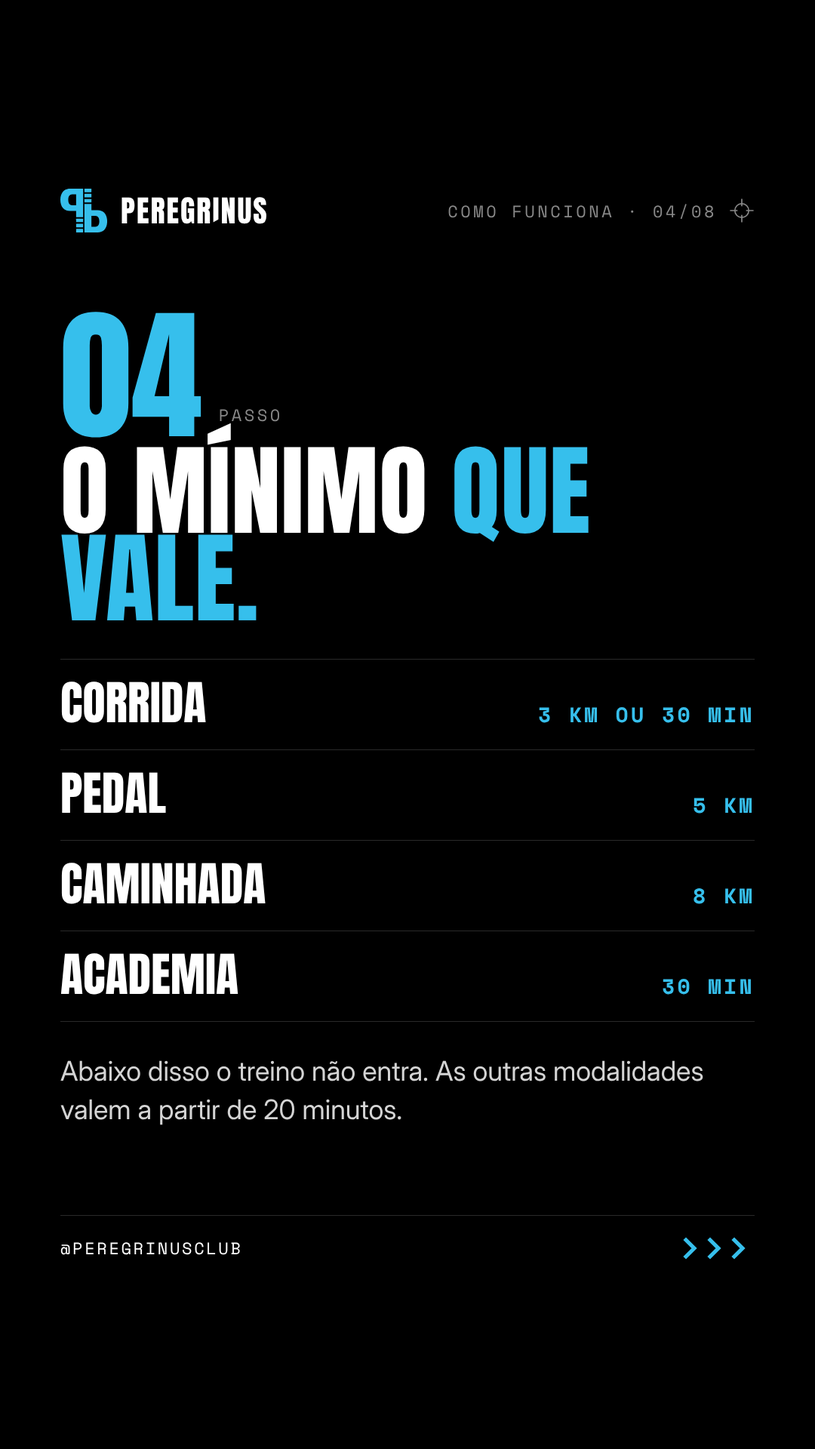
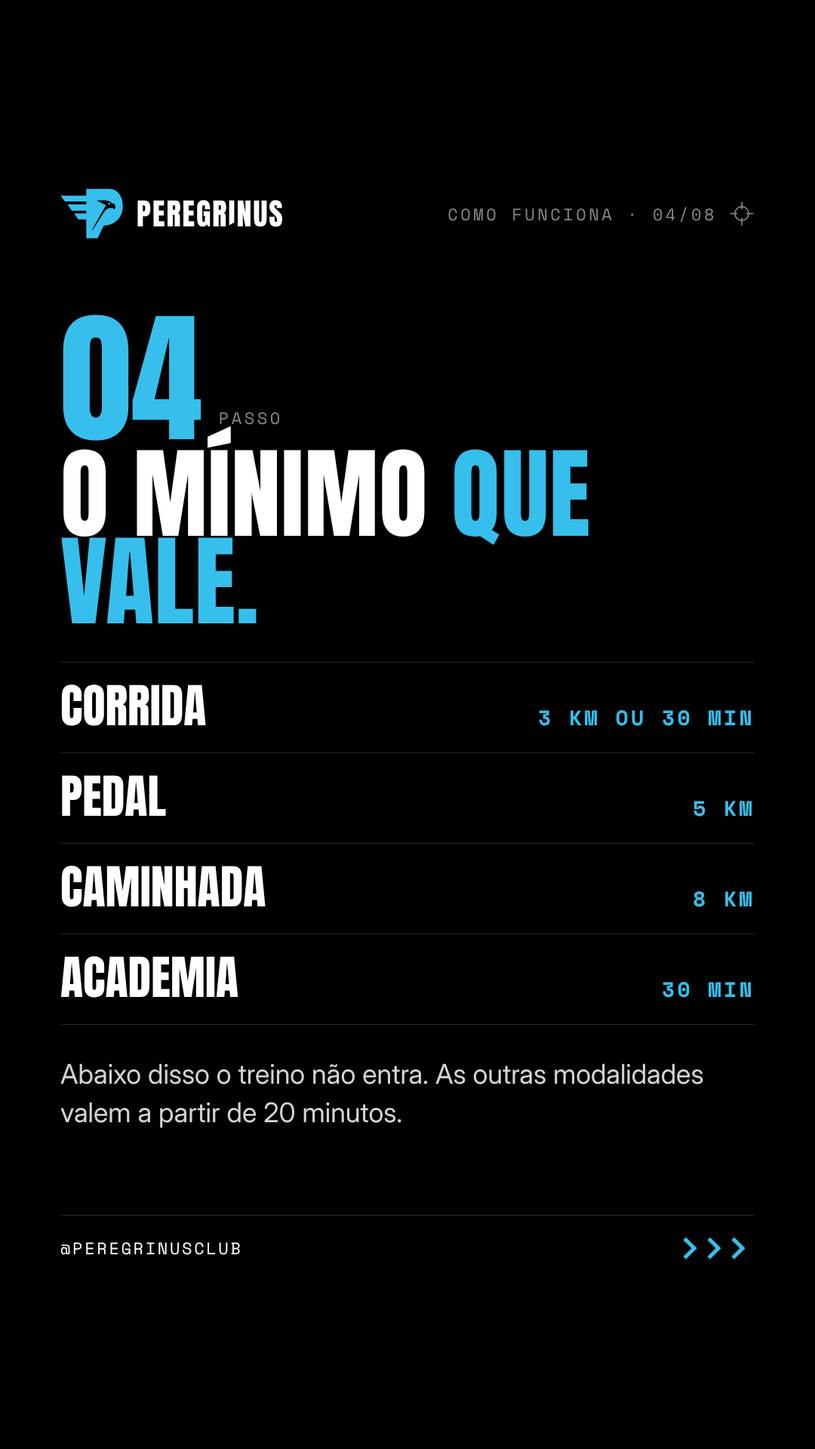
Stories do app: falcão em P no lugar do qb e capa com foto de alguém usando o app
Claude-Session: https://claude.ai/code/session_01LVriSKNRdrLtdVX5x94ct5

diff --git a/peregrinus/criacoes/stories-como-funciona-app/story-01.html b/peregrinus/criacoes/stories-como-funciona-app/story-01.html
@@ -13,12 +13,13 @@ body.azul{background:var(--blue);color:var(--black)}
 .safe{position:absolute;inset:250px 80px 250px 80px;display:flex;flex-direction:column;z-index:3}
 .top{display:flex;justify-content:space-between;align-items:center}
 .lockup{display:flex;align-items:center;gap:18px}
-.lockup svg{height:58px;width:auto;fill:var(--blue)}
+.lockup svg{height:66px;width:auto;fill:var(--blue)}
 body.azul .lockup svg,.capa .lockup svg{fill:var(--black)}
 .wm{font-family:"Anton",sans-serif;text-transform:uppercase;letter-spacing:.05em;line-height:1;font-size:40px;white-space:nowrap}
 .wm .i{display:inline-block;clip-path:polygon(-10% -10%,110% -10%,110% 74%,-10% 92%)}
 .tag{display:flex;align-items:center;gap:16px;font-family:"Space Mono",monospace;font-size:22px;letter-spacing:.16em;text-transform:uppercase;color:var(--grey)}
 body.azul .tag,.capa .tag,.capa .wm{color:var(--black)}
+.capa-foto .tag{color:var(--white)}
 .tag svg{width:34px;height:34px}
 .mid{flex:1;display:flex;flex-direction:column;justify-content:center}
 .step{display:flex;align-items:flex-end;gap:22px;margin-bottom:18px}
@@ -83,8 +84,14 @@ body.azul .foot svg{color:var(--black)}
 <symbol id="fire" viewBox="0 0 24 24"><path d="M12 2c1 3.5 5 6 5 11a5 5 0 0 1-10 0c0-2.4 1.2-4 2.6-5.3.2 1.6 1 2.8 2.2 3.3C11 8.6 11.3 5 12 2z" fill="none" stroke="currentColor" stroke-width="1.8" stroke-linejoin="round"/></symbol>
 <symbol id="msg" viewBox="0 0 24 24"><path d="M4 5h16v11H9l-5 4z" fill="none" stroke="currentColor" stroke-width="1.8" stroke-linejoin="round"/></symbol>
 </defs></svg>
-<div style="position:absolute;left:0;top:0;width:1080px;height:1060px;background:#36BFEC;overflow:hidden;z-index:0"><img src="falcao-voo.jpg" alt="" style="position:absolute;left:-180px;top:260px;width:1500px;mix-blend-mode:multiply;filter:grayscale(1)"></div>
-<div class="safe"><div class="capa"><div class="top"><div class="lockup"><svg viewBox="0 0 107 100"><use href="#pp"/></svg><span class="wm">PEREGR<span class="i">I</span>NUS</span></div><div class="tag"><span>App do club</span><svg><use href="#xh"/></svg></div></div></div>
+<div style="position:absolute;left:0;top:0;width:1080px;height:1120px;background:#000;overflow:hidden;z-index:0"><img src="capa-foto.jpg" alt="" style="position:absolute;left:-200px;top:-150px;width:1500px;filter:grayscale(1) contrast(1.1)"><div style="position:absolute;left:272px;top:480px;width:210px;height:412px;transform:scale(1.000);transform-origin:0 0;background:#000;border-radius:14px;overflow:hidden;font-family:Inter;color:#fff;padding:22px 14px">
+  <div style="display:flex;align-items:center;gap:6px"><svg viewBox="0 0 690 548" style="height:16px;width:auto;fill:#36BFEC"><use href="#fal"/></svg><span class="wm" style="font-size:11px">PEREGR<span class="i">I</span>NUS</span></div>
+  <div style="font-family:Anton;font-size:30px;line-height:.9;margin-top:22px">TREINOU?<br><span style="color:#36BFEC">POSTA.</span></div>
+  <div style="margin-top:12px;height:96px;background:#222;border-radius:2px;position:relative;overflow:hidden"><img src="falcao-voo.jpg" style="width:100%;height:100%;object-fit:cover;filter:grayscale(1)"><span style="position:absolute;left:5px;bottom:5px;background:#000;font-family:'Space Mono';font-size:7px;letter-spacing:.1em;padding:2px 4px;font-weight:700">JORNADA <b style="color:#36BFEC">047</b></span></div>
+  <div style="display:flex;gap:4px;margin-top:10px;font-family:'Space Mono';font-size:6.5px;letter-spacing:.08em"><span style="background:#36BFEC;color:#000;padding:3px 5px;font-weight:700">CORRIDA</span><span style="border:1px solid #555;padding:2px 5px">PEDAL</span><span style="border:1px solid #555;padding:2px 5px">ACADEMIA</span></div>
+  <div style="margin-top:12px;background:#36BFEC;color:#000;font-family:'Space Mono';font-weight:700;font-size:8px;letter-spacing:.12em;padding:8px 9px">REGISTRAR TREINO &gt;&gt;&gt;</div>
+</div><div style="position:absolute;inset:0;background:linear-gradient(180deg,rgba(0,0,0,.55) 0%,rgba(0,0,0,0) 26%,rgba(0,0,0,0) 72%,#000 100%)"></div></div>
+<div class="safe"><div class="capa-foto"><div class="top"><div class="lockup"><svg viewBox="0 0 690 548"><use href="#fal"/></svg><span class="wm">PEREGR<span class="i">I</span>NUS</span></div><div class="tag"><span>App do club</span><svg><use href="#xh"/></svg></div></div></div>
 <div class="mid" style="justify-content:flex-end;padding-bottom:40px">
   <div class="eyebrow">Passo a passo, em oito telas.</div>
   <div class="title" style="font-size:150px">O club no seu <em>celular.</em></div>

diff --git a/peregrinus/criacoes/stories-como-funciona-app/story-07.html b/peregrinus/criacoes/stories-como-funciona-app/story-07.html
@@ -13,12 +13,13 @@ body.azul{background:var(--blue);color:var(--black)}
 .safe{position:absolute;inset:250px 80px 250px 80px;display:flex;flex-direction:column;z-index:3}
 .top{display:flex;justify-content:space-between;align-items:center}
 .lockup{display:flex;align-items:center;gap:18px}
-.lockup svg{height:58px;width:auto;fill:var(--blue)}
+.lockup svg{height:66px;width:auto;fill:var(--blue)}
 body.azul .lockup svg,.capa .lockup svg{fill:var(--black)}
 .wm{font-family:"Anton",sans-serif;text-transform:uppercase;letter-spacing:.05em;line-height:1;font-size:40px;white-space:nowrap}
 .wm .i{display:inline-block;clip-path:polygon(-10% -10%,110% -10%,110% 74%,-10% 92%)}
 .tag{display:flex;align-items:center;gap:16px;font-family:"Space Mono",monospace;font-size:22px;letter-spacing:.16em;text-transform:uppercase;color:var(--grey)}
 body.azul .tag,.capa .tag,.capa .wm{color:var(--black)}
+.capa-foto .tag{color:var(--white)}
 .tag svg{width:34px;height:34px}
 .mid{flex:1;display:flex;flex-direction:column;justify-content:center}
 .step{display:flex;align-items:flex-end;gap:22px;margin-bottom:18px}
@@ -84,14 +85,14 @@ body.azul .foot svg{color:var(--black)}
 <symbol id="msg" viewBox="0 0 24 24"><path d="M4 5h16v11H9l-5 4z" fill="none" stroke="currentColor" stroke-width="1.8" stroke-linejoin="round"/></symbol>
 </defs></svg>
 
-<div class="safe"><div class="top"><div class="lockup"><svg viewBox="0 0 107 100"><use href="#pp"/></svg><span class="wm">PEREGR<span class="i">I</span>NUS</span></div><div class="tag"><span>Como funciona · 06/08</span><svg><use href="#xh"/></svg></div></div>
+<div class="safe"><div class="top"><div class="lockup"><svg viewBox="0 0 690 548"><use href="#fal"/></svg><span class="wm">PEREGR<span class="i">I</span>NUS</span></div><div class="tag"><span>Como funciona · 06/08</span><svg><use href="#xh"/></svg></div></div>
 <div class="mid">
   <div class="step"><span class="n">06</span><span class="l">PASSO</span></div>
   <div class="title">O grupo <em>vê tudo.</em></div>
   <div class="ui">
   <div class="chips"><span class="chip on">TODOS</span><span class="chip">SEGUINDO</span></div>
   <div style="display:flex;align-items:center;gap:20px;margin-top:30px">
-    <svg viewBox="0 0 107 100" style="width:74px;height:74px;fill:var(--blue);background:#1c1c1c;border-radius:50%;padding:16px"><use href="#pp"/></svg>
+    <svg viewBox="0 0 690 548" style="width:74px;height:74px;fill:var(--blue);background:#1c1c1c;border-radius:50%;padding:14px"><use href="#fal"/></svg>
     <div><div style="font-weight:600;font-size:32px">Nome do membro</div><div class="mono" style="font-size:20px;color:var(--grey)">CORRIDA · JORNADA 012</div></div>
   </div>
   <div style="display:flex;gap:40px;margin-top:30px;padding-top:24px;border-top:1.5px solid var(--line)">

diff --git a/peregrinus/criacoes/stories-como-funciona-app/story-10.html b/peregrinus/criacoes/stories-como-funciona-app/story-10.html
@@ -13,12 +13,13 @@ body.azul{background:var(--blue);color:var(--black)}
 .safe{position:absolute;inset:250px 80px 250px 80px;display:flex;flex-direction:column;z-index:3}
 .top{display:flex;justify-content:space-between;align-items:center}
 .lockup{display:flex;align-items:center;gap:18px}
-.lockup svg{height:58px;width:auto;fill:var(--blue)}
+.lockup svg{height:66px;width:auto;fill:var(--blue)}
 body.azul .lockup svg,.capa .lockup svg{fill:var(--black)}
 .wm{font-family:"Anton",sans-serif;text-transform:uppercase;letter-spacing:.05em;line-height:1;font-size:40px;white-space:nowrap}
 .wm .i{display:inline-block;clip-path:polygon(-10% -10%,110% -10%,110% 74%,-10% 92%)}
 .tag{display:flex;align-items:center;gap:16px;font-family:"Space Mono",monospace;font-size:22px;letter-spacing:.16em;text-transform:uppercase;color:var(--grey)}
 body.azul .tag,.capa .tag,.capa .wm{color:var(--black)}
+.capa-foto .tag{color:var(--white)}
 .tag svg{width:34px;height:34px}
 .mid{flex:1;display:flex;flex-direction:column;justify-content:center}
 .step{display:flex;align-items:flex-end;gap:22px;margin-bottom:18px}
@@ -84,7 +85,7 @@ body.azul .foot svg{color:var(--black)}
 <symbol id="msg" viewBox="0 0 24 24"><path d="M4 5h16v11H9l-5 4z" fill="none" stroke="currentColor" stroke-width="1.8" stroke-linejoin="round"/></symbol>
 </defs></svg>
 
-<div class="safe"><div class="top"><div class="lockup"><svg viewBox="0 0 107 100"><use href="#pp"/></svg><span class="wm">PEREGR<span class="i">I</span>NUS</span></div><div class="tag"><span>Bora junto</span><svg><use href="#xh"/></svg></div></div>
+<div class="safe"><div class="top"><div class="lockup"><svg viewBox="0 0 690 548"><use href="#fal"/></svg><span class="wm">PEREGR<span class="i">I</span>NUS</span></div><div class="tag"><span>Bora junto</span><svg><use href="#xh"/></svg></div></div>
 <div class="mid" style="justify-content:flex-end;padding-bottom:40px">
   <div class="title" style="font-size:150px">Seu esporte.<br>Seu ritmo.<br>Sua <em>jornada.</em></div>
   <div class="body">Ainda não entrou? Peça o código de convite no direct e comece hoje.</div>

diff --git a/peregrinus/criacoes/stories-como-funciona-app/story-02.html b/peregrinus/criacoes/stories-como-funciona-app/story-02.html
@@ -13,12 +13,13 @@ body.azul{background:var(--blue);color:var(--black)}
 .safe{position:absolute;inset:250px 80px 250px 80px;display:flex;flex-direction:column;z-index:3}
 .top{display:flex;justify-content:space-between;align-items:center}
 .lockup{display:flex;align-items:center;gap:18px}
-.lockup svg{height:58px;width:auto;fill:var(--blue)}
+.lockup svg{height:66px;width:auto;fill:var(--blue)}
 body.azul .lockup svg,.capa .lockup svg{fill:var(--black)}
 .wm{font-family:"Anton",sans-serif;text-transform:uppercase;letter-spacing:.05em;line-height:1;font-size:40px;white-space:nowrap}
 .wm .i{display:inline-block;clip-path:polygon(-10% -10%,110% -10%,110% 74%,-10% 92%)}
 .tag{display:flex;align-items:center;gap:16px;font-family:"Space Mono",monospace;font-size:22px;letter-spacing:.16em;text-transform:uppercase;color:var(--grey)}
 body.azul .tag,.capa .tag,.capa .wm{color:var(--black)}
+.capa-foto .tag{color:var(--white)}
 .tag svg{width:34px;height:34px}
 .mid{flex:1;display:flex;flex-direction:column;justify-content:center}
 .step{display:flex;align-items:flex-end;gap:22px;margin-bottom:18px}
@@ -84,7 +85,7 @@ body.azul .foot svg{color:var(--black)}
 <symbol id="msg" viewBox="0 0 24 24"><path d="M4 5h16v11H9l-5 4z" fill="none" stroke="currentColor" stroke-width="1.8" stroke-linejoin="round"/></symbol>
 </defs></svg>
 
-<div class="safe"><div class="top"><div class="lockup"><svg viewBox="0 0 107 100"><use href="#pp"/></svg><span class="wm">PEREGR<span class="i">I</span>NUS</span></div><div class="tag"><span>Como funciona · 01/08</span><svg><use href="#xh"/></svg></div></div>
+<div class="safe"><div class="top"><div class="lockup"><svg viewBox="0 0 690 548"><use href="#fal"/></svg><span class="wm">PEREGR<span class="i">I</span>NUS</span></div><div class="tag"><span>Como funciona · 01/08</span><svg><use href="#xh"/></svg></div></div>
 <div class="mid">
   <div class="step"><span class="n">01</span><span class="l">PASSO</span></div>
   <div class="title">Entre pelo <em style="white-space:nowrap">e-mail.</em></div>

diff --git a/peregrinus/criacoes/stories-como-funciona-app/story-06.html b/peregrinus/criacoes/stories-como-funciona-app/story-06.html
@@ -13,12 +13,13 @@ body.azul{background:var(--blue);color:var(--black)}
 .safe{position:absolute;inset:250px 80px 250px 80px;display:flex;flex-direction:column;z-index:3}
 .top{display:flex;justify-content:space-between;align-items:center}
 .lockup{display:flex;align-items:center;gap:18px}
-.lockup svg{height:58px;width:auto;fill:var(--blue)}
+.lockup svg{height:66px;width:auto;fill:var(--blue)}
 body.azul .lockup svg,.capa .lockup svg{fill:var(--black)}
 .wm{font-family:"Anton",sans-serif;text-transform:uppercase;letter-spacing:.05em;line-height:1;font-size:40px;white-space:nowrap}
 .wm .i{display:inline-block;clip-path:polygon(-10% -10%,110% -10%,110% 74%,-10% 92%)}
 .tag{display:flex;align-items:center;gap:16px;font-family:"Space Mono",monospace;font-size:22px;letter-spacing:.16em;text-transform:uppercase;color:var(--grey)}
 body.azul .tag,.capa .tag,.capa .wm{color:var(--black)}
+.capa-foto .tag{color:var(--white)}
 .tag svg{width:34px;height:34px}
 .mid{flex:1;display:flex;flex-direction:column;justify-content:center}
 .step{display:flex;align-items:flex-end;gap:22px;margin-bottom:18px}
@@ -84,7 +85,7 @@ body.azul .foot svg{color:var(--black)}
 <symbol id="msg" viewBox="0 0 24 24"><path d="M4 5h16v11H9l-5 4z" fill="none" stroke="currentColor" stroke-width="1.8" stroke-linejoin="round"/></symbol>
 </defs></svg>
 
-<div class="safe"><div class="top"><div class="lockup"><svg viewBox="0 0 107 100"><use href="#pp"/></svg><span class="wm">PEREGR<span class="i">I</span>NUS</span></div><div class="tag"><span>Como funciona · 05/08</span><svg><use href="#xh"/></svg></div></div>
+<div class="safe"><div class="top"><div class="lockup"><svg viewBox="0 0 690 548"><use href="#fal"/></svg><span class="wm">PEREGR<span class="i">I</span>NUS</span></div><div class="tag"><span>Como funciona · 05/08</span><svg><use href="#xh"/></svg></div></div>
 <div class="mid">
   <div class="step"><span class="n">05</span><span class="l">PASSO</span></div>
   <div class="title">Cada treino, <em>1 ponto.</em></div>

diff --git a/peregrinus/criacoes/stories-como-funciona-app/story-05.html b/peregrinus/criacoes/stories-como-funciona-app/story-05.html
@@ -13,12 +13,13 @@ body.azul{background:var(--blue);color:var(--black)}
 .safe{position:absolute;inset:250px 80px 250px 80px;display:flex;flex-direction:column;z-index:3}
 .top{display:flex;justify-content:space-between;align-items:center}
 .lockup{display:flex;align-items:center;gap:18px}
-.lockup svg{height:58px;width:auto;fill:var(--blue)}
+.lockup svg{height:66px;width:auto;fill:var(--blue)}
 body.azul .lockup svg,.capa .lockup svg{fill:var(--black)}
 .wm{font-family:"Anton",sans-serif;text-transform:uppercase;letter-spacing:.05em;line-height:1;font-size:40px;white-space:nowrap}
 .wm .i{display:inline-block;clip-path:polygon(-10% -10%,110% -10%,110% 74%,-10% 92%)}
 .tag{display:flex;align-items:center;gap:16px;font-family:"Space Mono",monospace;font-size:22px;letter-spacing:.16em;text-transform:uppercase;color:var(--grey)}
 body.azul .tag,.capa .tag,.capa .wm{color:var(--black)}
+.capa-foto .tag{color:var(--white)}
 .tag svg{width:34px;height:34px}
 .mid{flex:1;display:flex;flex-direction:column;justify-content:center}
 .step{display:flex;align-items:flex-end;gap:22px;margin-bottom:18px}
@@ -84,7 +85,7 @@ body.azul .foot svg{color:var(--black)}
 <symbol id="msg" viewBox="0 0 24 24"><path d="M4 5h16v11H9l-5 4z" fill="none" stroke="currentColor" stroke-width="1.8" stroke-linejoin="round"/></symbol>
 </defs></svg>
 
-<div class="safe"><div class="top"><div class="lockup"><svg viewBox="0 0 107 100"><use href="#pp"/></svg><span class="wm">PEREGR<span class="i">I</span>NUS</span></div><div class="tag"><span>Como funciona · 04/08</span><svg><use href="#xh"/></svg></div></div>
+<div class="safe"><div class="top"><div class="lockup"><svg viewBox="0 0 690 548"><use href="#fal"/></svg><span class="wm">PEREGR<span class="i">I</span>NUS</span></div><div class="tag"><span>Como funciona · 04/08</span><svg><use href="#xh"/></svg></div></div>
 <div class="mid">
   <div class="step"><span class="n">04</span><span class="l">PASSO</span></div>
   <div class="title">O mínimo <em>que vale.</em></div>

diff --git a/peregrinus/criacoes/stories-como-funciona-app/story-03.html b/peregrinus/criacoes/stories-como-funciona-app/story-03.html
@@ -13,12 +13,13 @@ body.azul{background:var(--blue);color:var(--black)}
 .safe{position:absolute;inset:250px 80px 250px 80px;display:flex;flex-direction:column;z-index:3}
 .top{display:flex;justify-content:space-between;align-items:center}
 .lockup{display:flex;align-items:center;gap:18px}
-.lockup svg{height:58px;width:auto;fill:var(--blue)}
+.lockup svg{height:66px;width:auto;fill:var(--blue)}
 body.azul .lockup svg,.capa .lockup svg{fill:var(--black)}
 .wm{font-family:"Anton",sans-serif;text-transform:uppercase;letter-spacing:.05em;line-height:1;font-size:40px;white-space:nowrap}
 .wm .i{display:inline-block;clip-path:polygon(-10% -10%,110% -10%,110% 74%,-10% 92%)}
 .tag{display:flex;align-items:center;gap:16px;font-family:"Space Mono",monospace;font-size:22px;letter-spacing:.16em;text-transform:uppercase;color:var(--grey)}
 body.azul .tag,.capa .tag,.capa .wm{color:var(--black)}
+.capa-foto .tag{color:var(--white)}
 .tag svg{width:34px;height:34px}
 .mid{flex:1;display:flex;flex-direction:column;justify-content:center}
 .step{display:flex;align-items:flex-end;gap:22px;margin-bottom:18px}
@@ -84,7 +85,7 @@ body.azul .foot svg{color:var(--black)}
 <symbol id="msg" viewBox="0 0 24 24"><path d="M4 5h16v11H9l-5 4z" fill="none" stroke="currentColor" stroke-width="1.8" stroke-linejoin="round"/></symbol>
 </defs></svg>
 
-<div class="safe"><div class="top"><div class="lockup"><svg viewBox="0 0 107 100"><use href="#pp"/></svg><span class="wm">PEREGR<span class="i">I</span>NUS</span></div><div class="tag"><span>Como funciona · 02/08</span><svg><use href="#xh"/></svg></div></div>
+<div class="safe"><div class="top"><div class="lockup"><svg viewBox="0 0 690 548"><use href="#fal"/></svg><span class="wm">PEREGR<span class="i">I</span>NUS</span></div><div class="tag"><span>Como funciona · 02/08</span><svg><use href="#xh"/></svg></div></div>
 <div class="mid">
   <div class="step"><span class="n">02</span><span class="l">PASSO</span></div>
   <div class="title">Instale <em>sem loja.</em></div>

diff --git a/peregrinus/criacoes/stories-como-funciona-app/story-08.html b/peregrinus/criacoes/stories-como-funciona-app/story-08.html
@@ -13,12 +13,13 @@ body.azul{background:var(--blue);color:var(--black)}
 .safe{position:absolute;inset:250px 80px 250px 80px;display:flex;flex-direction:column;z-index:3}
 .top{display:flex;justify-content:space-between;align-items:center}
 .lockup{display:flex;align-items:center;gap:18px}
-.lockup svg{height:58px;width:auto;fill:var(--blue)}
+.lockup svg{height:66px;width:auto;fill:var(--blue)}
 body.azul .lockup svg,.capa .lockup svg{fill:var(--black)}
 .wm{font-family:"Anton",sans-serif;text-transform:uppercase;letter-spacing:.05em;line-height:1;font-size:40px;white-space:nowrap}
 .wm .i{display:inline-block;clip-path:polygon(-10% -10%,110% -10%,110% 74%,-10% 92%)}
 .tag{display:flex;align-items:center;gap:16px;font-family:"Space Mono",monospace;font-size:22px;letter-spacing:.16em;text-transform:uppercase;color:var(--grey)}
 body.azul .tag,.capa .tag,.capa .wm{color:var(--black)}
+.capa-foto .tag{color:var(--white)}
 .tag svg{width:34px;height:34px}
 .mid{flex:1;display:flex;flex-direction:column;justify-content:center}
 .step{display:flex;align-items:flex-end;gap:22px;margin-bottom:18px}
@@ -84,7 +85,7 @@ body.azul .foot svg{color:var(--black)}
 <symbol id="msg" viewBox="0 0 24 24"><path d="M4 5h16v11H9l-5 4z" fill="none" stroke="currentColor" stroke-width="1.8" stroke-linejoin="round"/></symbol>
 </defs></svg>
 
-<div class="safe"><div class="top"><div class="lockup"><svg viewBox="0 0 107 100"><use href="#pp"/></svg><span class="wm">PEREGR<span class="i">I</span>NUS</span></div><div class="tag"><span>Como funciona · 07/08</span><svg><use href="#xh"/></svg></div></div>
+<div class="safe"><div class="top"><div class="lockup"><svg viewBox="0 0 690 548"><use href="#fal"/></svg><span class="wm">PEREGR<span class="i">I</span>NUS</span></div><div class="tag"><span>Como funciona · 07/08</span><svg><use href="#xh"/></svg></div></div>
 <div class="mid">
   <div class="step"><span class="n">07</span><span class="l">PASSO</span></div>
   <div class="title">Marque <em>presença.</em></div>

diff --git a/peregrinus/criacoes/stories-como-funciona-app/story-04.html b/peregrinus/criacoes/stories-como-funciona-app/story-04.html
@@ -13,12 +13,13 @@ body.azul{background:var(--blue);color:var(--black)}
 .safe{position:absolute;inset:250px 80px 250px 80px;display:flex;flex-direction:column;z-index:3}
 .top{display:flex;justify-content:space-between;align-items:center}
 .lockup{display:flex;align-items:center;gap:18px}
-.lockup svg{height:58px;width:auto;fill:var(--blue)}
+.lockup svg{height:66px;width:auto;fill:var(--blue)}
 body.azul .lockup svg,.capa .lockup svg{fill:var(--black)}
 .wm{font-family:"Anton",sans-serif;text-transform:uppercase;letter-spacing:.05em;line-height:1;font-size:40px;white-space:nowrap}
 .wm .i{display:inline-block;clip-path:polygon(-10% -10%,110% -10%,110% 74%,-10% 92%)}
 .tag{display:flex;align-items:center;gap:16px;font-family:"Space Mono",monospace;font-size:22px;letter-spacing:.16em;text-transform:uppercase;color:var(--grey)}
 body.azul .tag,.capa .tag,.capa .wm{color:var(--black)}
+.capa-foto .tag{color:var(--white)}
 .tag svg{width:34px;height:34px}
 .mid{flex:1;display:flex;flex-direction:column;justify-content:center}
 .step{display:flex;align-items:flex-end;gap:22px;margin-bottom:18px}
@@ -84,7 +85,7 @@ body.azul .foot svg{color:var(--black)}
 <symbol id="msg" viewBox="0 0 24 24"><path d="M4 5h16v11H9l-5 4z" fill="none" stroke="currentColor" stroke-width="1.8" stroke-linejoin="round"/></symbol>
 </defs></svg>
 
-<div class="safe"><div class="top"><div class="lockup"><svg viewBox="0 0 107 100"><use href="#pp"/></svg><span class="wm">PEREGR<span class="i">I</span>NUS</span></div><div class="tag"><span>Como funciona · 03/08</span><svg><use href="#xh"/></svg></div></div>
+<div class="safe"><div class="top"><div class="lockup"><svg viewBox="0 0 690 548"><use href="#fal"/></svg><span class="wm">PEREGR<span class="i">I</span>NUS</span></div><div class="tag"><span>Como funciona · 03/08</span><svg><use href="#xh"/></svg></div></div>
 <div class="mid">
   <div class="step"><span class="n">03</span><span class="l">PASSO</span></div>
   <div class="title">Treinou? <em>Posta.</em></div>

diff --git a/peregrinus/criacoes/stories-como-funciona-app/story-09.html b/peregrinus/criacoes/stories-como-funciona-app/story-09.html
@@ -13,12 +13,13 @@ body.azul{background:var(--blue);color:var(--black)}
 .safe{position:absolute;inset:250px 80px 250px 80px;display:flex;flex-direction:column;z-index:3}
 .top{display:flex;justify-content:space-between;align-items:center}
 .lockup{display:flex;align-items:center;gap:18px}
-.lockup svg{height:58px;width:auto;fill:var(--blue)}
+.lockup svg{height:66px;width:auto;fill:var(--blue)}
 body.azul .lockup svg,.capa .lockup svg{fill:var(--black)}
 .wm{font-family:"Anton",sans-serif;text-transform:uppercase;letter-spacing:.05em;line-height:1;font-size:40px;white-space:nowrap}
 .wm .i{display:inline-block;clip-path:polygon(-10% -10%,110% -10%,110% 74%,-10% 92%)}
 .tag{display:flex;align-items:center;gap:16px;font-family:"Space Mono",monospace;font-size:22px;letter-spacing:.16em;text-transform:uppercase;color:var(--grey)}
 body.azul .tag,.capa .tag,.capa .wm{color:var(--black)}
+.capa-foto .tag{color:var(--white)}
 .tag svg{width:34px;height:34px}
 .mid{flex:1;display:flex;flex-direction:column;justify-content:center}
 .step{display:flex;align-items:flex-end;gap:22px;margin-bottom:18px}
@@ -84,7 +85,7 @@ body.azul .foot svg{color:var(--black)}
 <symbol id="msg" viewBox="0 0 24 24"><path d="M4 5h16v11H9l-5 4z" fill="none" stroke="currentColor" stroke-width="1.8" stroke-linejoin="round"/></symbol>
 </defs></svg>
 
-<div class="safe"><div class="top"><div class="lockup"><svg viewBox="0 0 107 100"><use href="#pp"/></svg><span class="wm">PEREGR<span class="i">I</span>NUS</span></div><div class="tag"><span>Como funciona · 08/08</span><svg><use href="#xh"/></svg></div></div>
+<div class="safe"><div class="top"><div class="lockup"><svg viewBox="0 0 690 548"><use href="#fal"/></svg><span class="wm">PEREGR<span class="i">I</span>NUS</span></div><div class="tag"><span>Como funciona · 08/08</span><svg><use href="#xh"/></svg></div></div>
 <div class="mid">
   <div class="step"><span class="n">08</span><span class="l">PASSO</span></div>
   <div class="title">E tem <em>mais.</em></div>

diff --git a/peregrinus/criacoes/stories-como-funciona-app/gerar.py b/peregrinus/criacoes/stories-como-funciona-app/gerar.py
@@ -24,12 +24,13 @@ body.azul{background:var(--blue);color:var(--black)}
 .safe{position:absolute;inset:250px 80px 250px 80px;display:flex;flex-direction:column;z-index:3}
 .top{display:flex;justify-content:space-between;align-items:center}
 .lockup{display:flex;align-items:center;gap:18px}
-.lockup svg{height:58px;width:auto;fill:var(--blue)}
+.lockup svg{height:66px;width:auto;fill:var(--blue)}
 body.azul .lockup svg,.capa .lockup svg{fill:var(--black)}
 .wm{font-family:"Anton",sans-serif;text-transform:uppercase;letter-spacing:.05em;line-height:1;font-size:40px;white-space:nowrap}
 .wm .i{display:inline-block;clip-path:polygon(-10% -10%,110% -10%,110% 74%,-10% 92%)}
 .tag{display:flex;align-items:center;gap:16px;font-family:"Space Mono",monospace;font-size:22px;letter-spacing:.16em;text-transform:uppercase;color:var(--grey)}
 body.azul .tag,.capa .tag,.capa .wm{color:var(--black)}
+.capa-foto .tag{color:var(--white)}
 .tag svg{width:34px;height:34px}
 .mid{flex:1;display:flex;flex-direction:column;justify-content:center}
 .step{display:flex;align-items:flex-end;gap:22px;margin-bottom:18px}
@@ -90,7 +91,7 @@ ICONS = """
 
 
 def top(rotulo, capa=False):
-    return f"""<div class="top"><div class="lockup"><svg viewBox="0 0 107 100"><use href="#pp"/></svg><span class="wm">PEREGR<span class="i">I</span>NUS</span></div><div class="tag"><span>{rotulo}</span><svg><use href="#xh"/></svg></div></div>"""
+    return f"""<div class="top"><div class="lockup"><svg viewBox="0 0 690 548"><use href="#fal"/></svg><span class="wm">PEREGR<span class="i">I</span>NUS</span></div><div class="tag"><span>{rotulo}</span><svg><use href="#xh"/></svg></div></div>"""
 
 
 FOOT = """<div class="foot"><span>@peregrinusclub</span><svg><use href="#chev"/></svg></div>"""
@@ -123,13 +124,27 @@ DEG = '<span class="deg"><i></i><i></i><i></i></span>'
 STORIES = []
 
 # 01 · capa
-STORIES.append(page(f"""<div class="capa">{top("App do club")}</div>
+# Foto P&B de alguém com o celular (capa-foto.jpg, quadrada) com a tela do app encaixada no celular.
+# Posição da tela medida na foto: x 31,5% a 45,5%, y 42% a 69,5%. Se trocar a foto, ajuste TELA.
+FOTO = dict(w=1500, left=-200, top=-150)
+TELA = dict(x0=.315, x1=.455, y0=.42, y1=.695)
+tx, ty = FOTO["left"] + TELA["x0"] * FOTO["w"], FOTO["top"] + TELA["y0"] * FOTO["w"]
+tw, th = (TELA["x1"] - TELA["x0"]) * FOTO["w"], (TELA["y1"] - TELA["y0"]) * FOTO["w"]
+k = tw / 210
+APP = f"""<div style="position:absolute;left:{tx:.0f}px;top:{ty:.0f}px;width:210px;height:{th / k:.0f}px;transform:scale({k:.3f});transform-origin:0 0;background:#000;border-radius:14px;overflow:hidden;font-family:Inter;color:#fff;padding:22px 14px">
+  <div style="display:flex;align-items:center;gap:6px"><svg viewBox="0 0 690 548" style="height:16px;width:auto;fill:#36BFEC"><use href="#fal"/></svg><span class="wm" style="font-size:11px">PEREGR<span class="i">I</span>NUS</span></div>
+  <div style="font-family:Anton;font-size:30px;line-height:.9;margin-top:22px">TREINOU?<br><span style="color:#36BFEC">POSTA.</span></div>
+  <div style="margin-top:12px;height:96px;background:#222;border-radius:2px;position:relative;overflow:hidden"><img src="falcao-voo.jpg" style="width:100%;height:100%;object-fit:cover;filter:grayscale(1)"><span style="position:absolute;left:5px;bottom:5px;background:#000;font-family:'Space Mono';font-size:7px;letter-spacing:.1em;padding:2px 4px;font-weight:700">JORNADA <b style="color:#36BFEC">047</b></span></div>
+  <div style="display:flex;gap:4px;margin-top:10px;font-family:'Space Mono';font-size:6.5px;letter-spacing:.08em"><span style="background:#36BFEC;color:#000;padding:3px 5px;font-weight:700">CORRIDA</span><span style="border:1px solid #555;padding:2px 5px">PEDAL</span><span style="border:1px solid #555;padding:2px 5px">ACADEMIA</span></div>
+  <div style="margin-top:12px;background:#36BFEC;color:#000;font-family:'Space Mono';font-weight:700;font-size:8px;letter-spacing:.12em;padding:8px 9px">REGISTRAR TREINO &gt;&gt;&gt;</div>
+</div>"""
+STORIES.append(page(f"""<div class="capa-foto">{top("App do club")}</div>
 <div class="mid" style="justify-content:flex-end;padding-bottom:40px">
   <div class="eyebrow">Passo a passo, em oito telas.</div>
   <div class="title" style="font-size:150px">O club no seu <em>celular.</em></div>
   <div class="body">Treino, ranking, comunidade e encontros num lugar só. Segue as próximas telas.</div>
 </div>
-{FOOT}""", extra='<div style="position:absolute;left:0;top:0;width:1080px;height:1060px;background:#36BFEC;overflow:hidden;z-index:0"><img src="falcao-voo.jpg" alt="" style="position:absolute;left:-180px;top:260px;width:1500px;mix-blend-mode:multiply;filter:grayscale(1)"></div>'))
+{FOOT}""", extra=f'<div style="position:absolute;left:0;top:0;width:1080px;height:1120px;background:#000;overflow:hidden;z-index:0"><img src="capa-foto.jpg" alt="" style="position:absolute;left:{FOTO["left"]}px;top:{FOTO["top"]}px;width:{FOTO["w"]}px;filter:grayscale(1) contrast(1.1)">{APP}<div style="position:absolute;inset:0;background:linear-gradient(180deg,rgba(0,0,0,.55) 0%,rgba(0,0,0,0) 26%,rgba(0,0,0,0) 72%,#000 100%)"></div></div>'))
 
 # 02 · entrar
 STORIES.append(passo(1, "Entre pelo <em style=\"white-space:nowrap\">e-mail.</em>",
@@ -182,7 +197,7 @@ STORIES.append(passo(6, "O grupo <em>vê tudo.</em>",
     """<div class="ui">
   <div class="chips"><span class="chip on">TODOS</span><span class="chip">SEGUINDO</span></div>
   <div style="display:flex;align-items:center;gap:20px;margin-top:30px">
-    <svg viewBox="0 0 107 100" style="width:74px;height:74px;fill:var(--blue);background:#1c1c1c;border-radius:50%;padding:16px"><use href="#pp"/></svg>
+    <svg viewBox="0 0 690 548" style="width:74px;height:74px;fill:var(--blue);background:#1c1c1c;border-radius:50%;padding:14px"><use href="#fal"/></svg>
     <div><div style="font-weight:600;font-size:32px">Nome do membro</div><div class="mono" style="font-size:20px;color:var(--grey)">CORRIDA · JORNADA 012</div></div>
   </div>
   <div style="display:flex;gap:40px;margin-top:30px;padding-top:24px;border-top:1.5px solid var(--line)">
